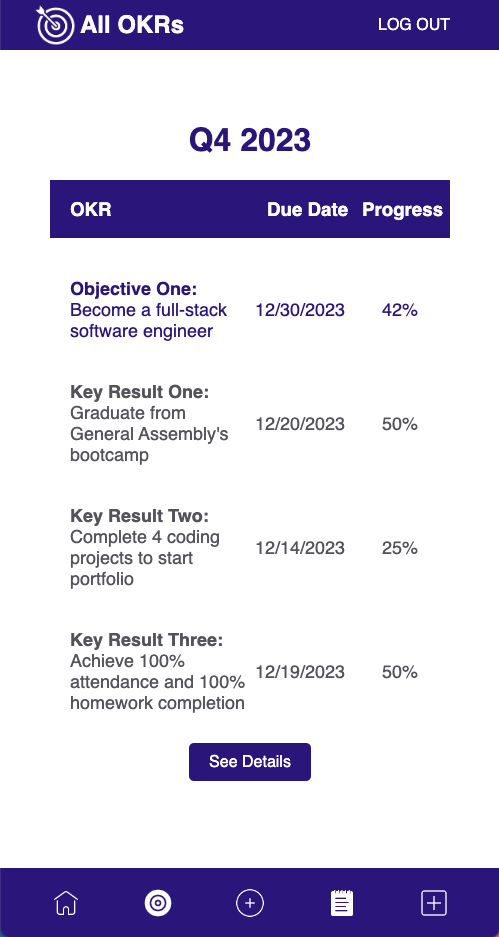
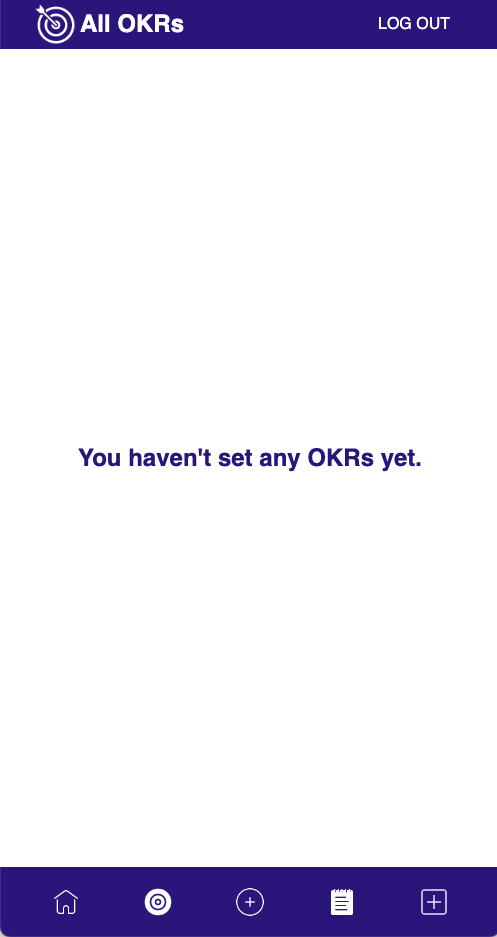
added one more final screen

diff --git a/README.md b/README.md
@@ -89,12 +89,14 @@ This is a web application hosted on Heroku utilizing the Express framework for N
 ###### All OKRs Page
 ![OKR Page A](./public/images/finalscreens/OkrPageFinalA.png)
 ---
-###### Add OKR Page Options
+![OKR Page B](./public/images/finalscreens/OkrPageFinalB.png)
+---
+###### Add an OKR Page Options
 ![Add OKR Page A](./public/images/finalscreens/AddOkrPageFinalA.png)
 ---
 ![Add OKR Page B](./public/images/finalscreens/AddOkrPageFinalB.png)
 ---
-###### OKR Detail Page Option
+###### OKR Detail Page
 ![OKR Detail Page](./public/images/finalscreens/OkrDetailPageFinal.png)
 ---
 ###### Update / Delete OKR Page
